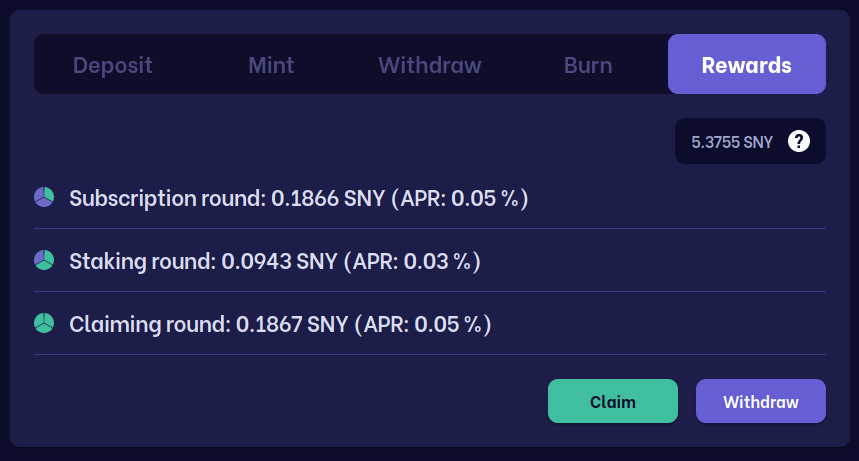
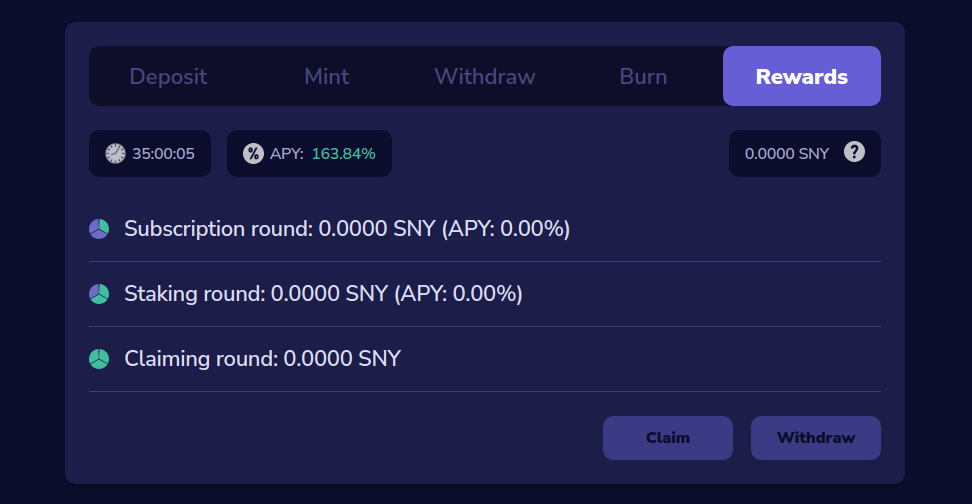
add info average apy

Changed region(s): [[0.0, 0.0, 0.9988, 0.9718]]

diff --git a/docs/docs/staking.md b/docs/docs/staking.md
@@ -156,6 +156,14 @@ You can check each round's time when you hover over the icon on the left from ea
 
 ![Time of rounds and claiming](/img/docs/rewardsHover.png)
 
+Now APY looks like this:
+
+avgAPR = weekly_rewards_value/debt_pool_value\*52
+
+Average APY = ((avgAPR/52+1)^52)-1
+
+52 is number of weeks, cause APY is weekly
+
 ### Something failed
 
 If the connection to the wallet could not be established:
